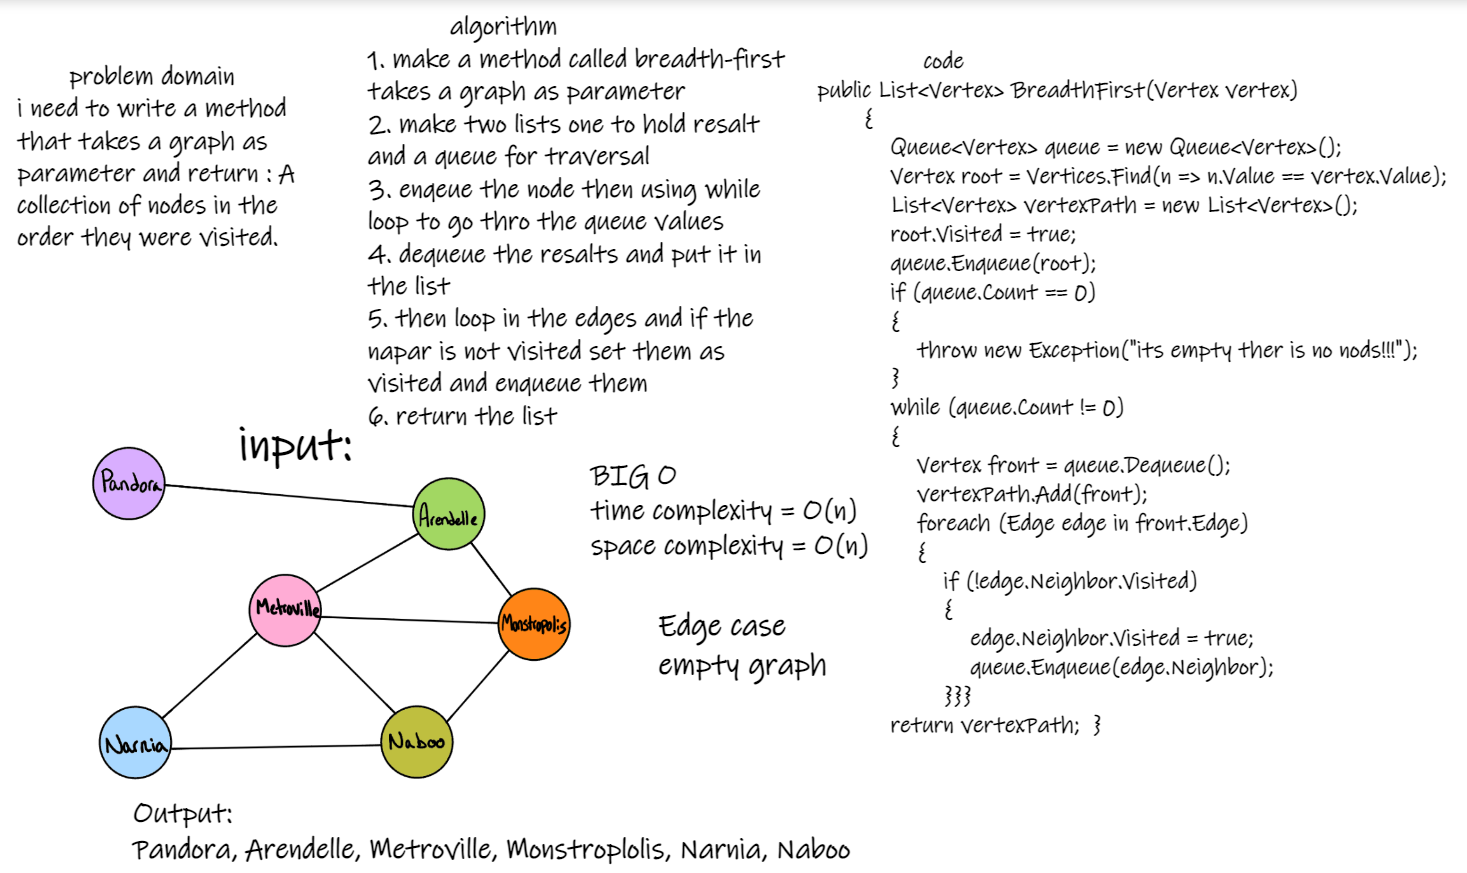
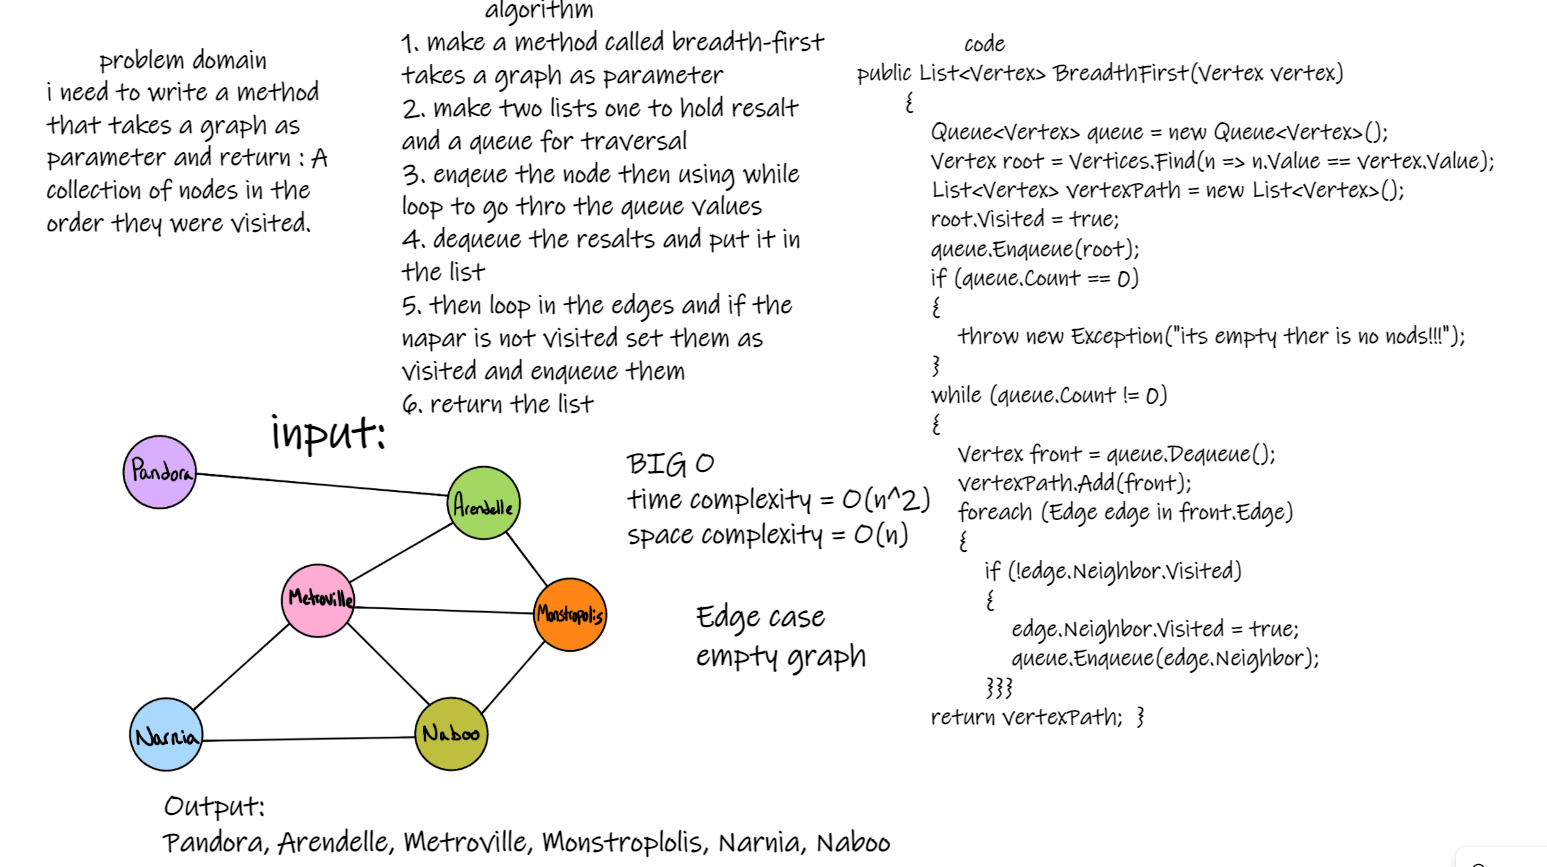
36.2

diff --git a/Graphs/breadth-first/breadth-first.md b/Graphs/breadth-first/breadth-first.md
@@ -16,7 +16,7 @@ Implementation of graph-breadth-first traversal method in graphs to retern it or
 
 ### BIG O :
 
-Time Complexity: O(n)
+Time Complexity: O(n^2)
 Space Complexity: O(n)
 
 
